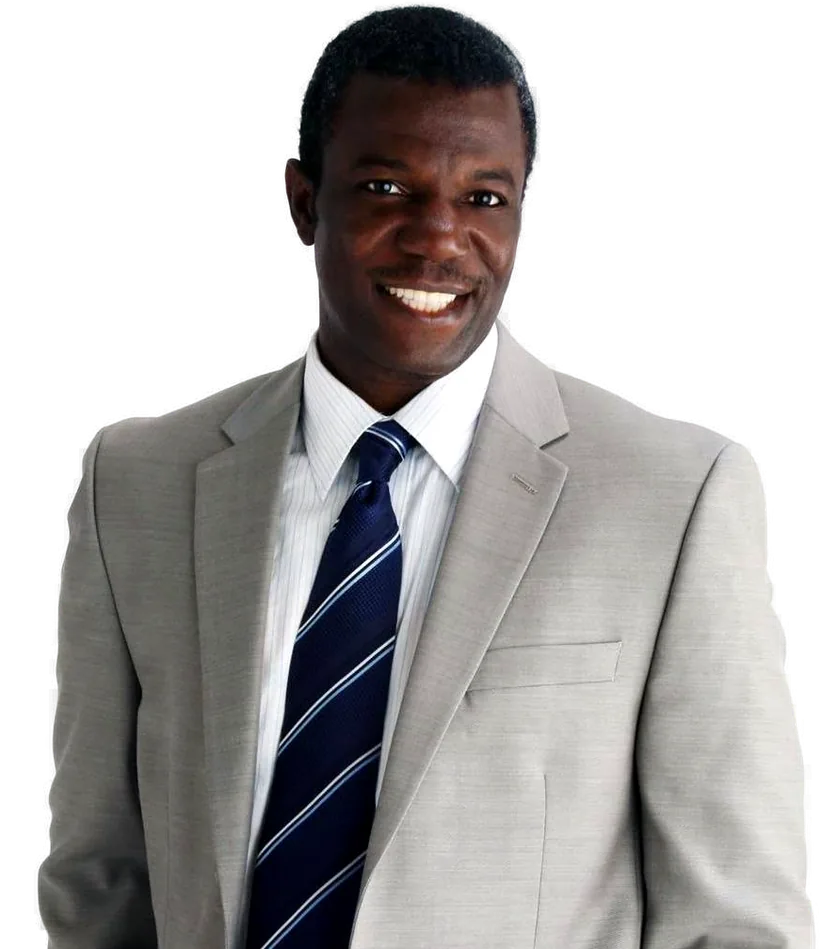
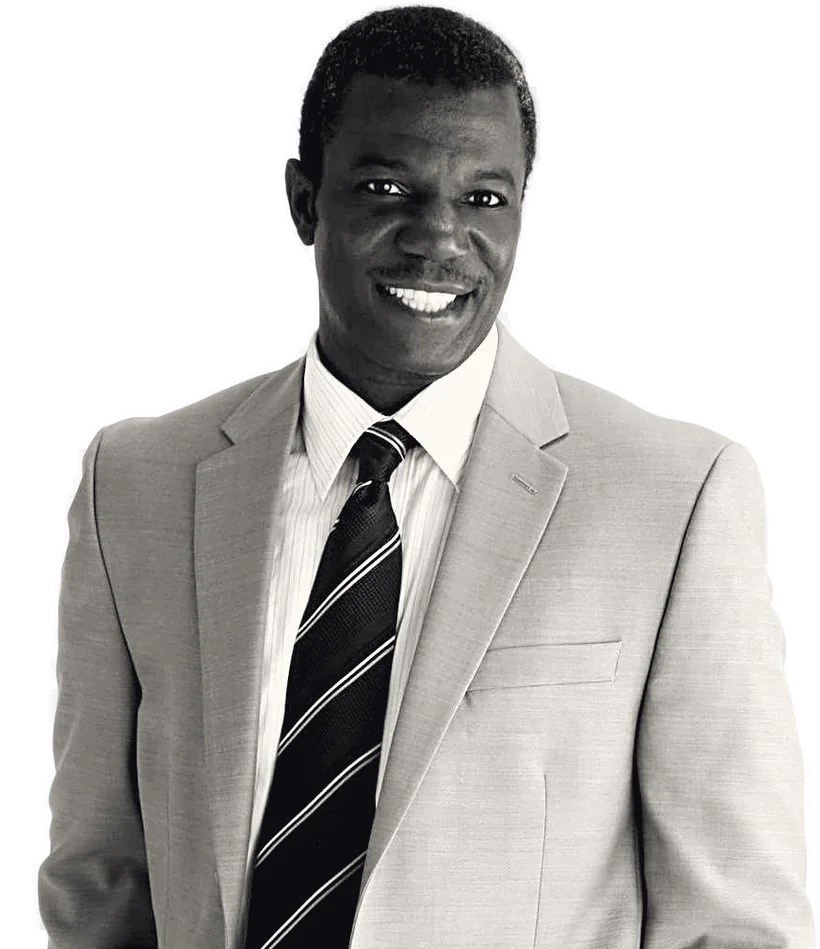
AI School CTA: photo clipped to the blob's curved base; black-and-white treatment with lifted shadows
Claude-Session: https://claude.ai/code/session_01EWQzoRbBESKLoLZM4GKCC3

Changed region(s): [[0.0305, 0.0306, 0.7622, 1.0], [0.7317, 0.5195, 0.9451, 1.0], [0.8537, 0.4584, 0.8841, 0.5195]]

diff --git a/src/components/SchoolCta.tsx b/src/components/SchoolCta.tsx
@@ -224,23 +224,33 @@ export function SchoolCta() {
           transition={{ duration: 0.9, ease: EASE }}
         >
           {/* organic blob + lighter curve */}
-          <svg viewBox="0 0 400 420" className="absolute left-[6%] bottom-[4%] w-[94%] h-[88%]" aria-hidden>
-            <path d="M58 140 C 40 70, 120 30, 200 46 C 300 64, 372 110, 360 220 C 350 320, 300 400, 196 404 C 96 408, 30 352, 34 270 C 36 220, 70 190, 58 140 Z" fill="#1B2A5C" />
-            <path d="M58 140 C 40 70, 120 30, 200 46 C 140 60, 92 100, 98 170 C 102 220, 70 250, 34 270 C 36 220, 70 190, 58 140 Z" fill="#3C4F8C" opacity="0.55" />
-            {/* tiny flag-star sprinkle */}
-            {[[300, 120], [320, 160], [280, 150], [330, 210]].map(([x, y]) => (
-              <circle key={`${x}${y}`} cx={x} cy={y} r="2.4" fill="#F5F1E8" opacity="0.5" />
-            ))}
+          {/* One SVG: navy blob + photo. The photo is clipped to (everything above the blob's waist) ∪ (the blob),
+              so his body ends exactly on the blob's curved base. */}
+          <svg viewBox="0 0 400 432" className="absolute inset-0 h-full w-full z-[3] overflow-visible" role="img" aria-label="Dr. Jacob Familoni">
+            <defs>
+              <clipPath id="schoolClip">
+                <rect x="70" y="-40" width="300" height="232" />
+                <path transform="translate(24 18) scale(0.94 0.92)" d="M58 140 C 40 70, 120 30, 200 46 C 300 64, 372 110, 360 220 C 350 320, 300 400, 196 404 C 96 408, 30 352, 34 270 C 36 220, 70 190, 58 140 Z" />
+              </clipPath>
+            </defs>
+            <g transform="translate(24 18) scale(0.94 0.92)">
+              <path d="M58 140 C 40 70, 120 30, 200 46 C 300 64, 372 110, 360 220 C 350 320, 300 400, 196 404 C 96 408, 30 352, 34 270 C 36 220, 70 190, 58 140 Z" fill="#1B2A5C" />
+              <path d="M58 140 C 40 70, 120 30, 200 46 C 140 60, 92 100, 98 170 C 102 220, 70 250, 34 270 C 36 220, 70 190, 58 140 Z" fill="#3C4F8C" opacity="0.55" />
+              {[[300, 120], [320, 160], [280, 150], [330, 210]].map(([x, y]) => (
+                <circle key={`${x}${y}`} cx={x} cy={y} r="2.4" fill="#F5F1E8" opacity="0.5" />
+              ))}
+            </g>
+            <image
+              href="/media/familoni-school-820.webp"
+              x="17"
+              y="-6"
+              width="366"
+              height="424"
+              preserveAspectRatio="xMidYMax meet"
+              clipPath="url(#schoolClip)"
+              style={{ filter: 'drop-shadow(0 18px 22px rgba(11,15,26,0.22))' }}
+            />
           </svg>
-          <img
-            src="/media/familoni-school-820.webp"
-            srcSet="/media/familoni-school-520.webp 520w, /media/familoni-school-820.webp 820w"
-            sizes="(min-width: 768px) 30rem, 90vw"
-            alt="Dr. Jacob Familoni"
-            loading="lazy"
-            decoding="async"
-            className="absolute bottom-0 left-1/2 -translate-x-1/2 h-[98%] w-auto max-w-none z-[3] drop-shadow-[0_24px_30px_rgba(11,15,26,0.25)] [mask-image:linear-gradient(to_bottom,#000_80%,transparent)]"
-          />
 
           {/* tiles: AI · code · design · business */}
           <Tile className="left-[2%] top-[22%] h-14 w-14 md:h-16 md:w-16" tilt={-10} delay={0}>
